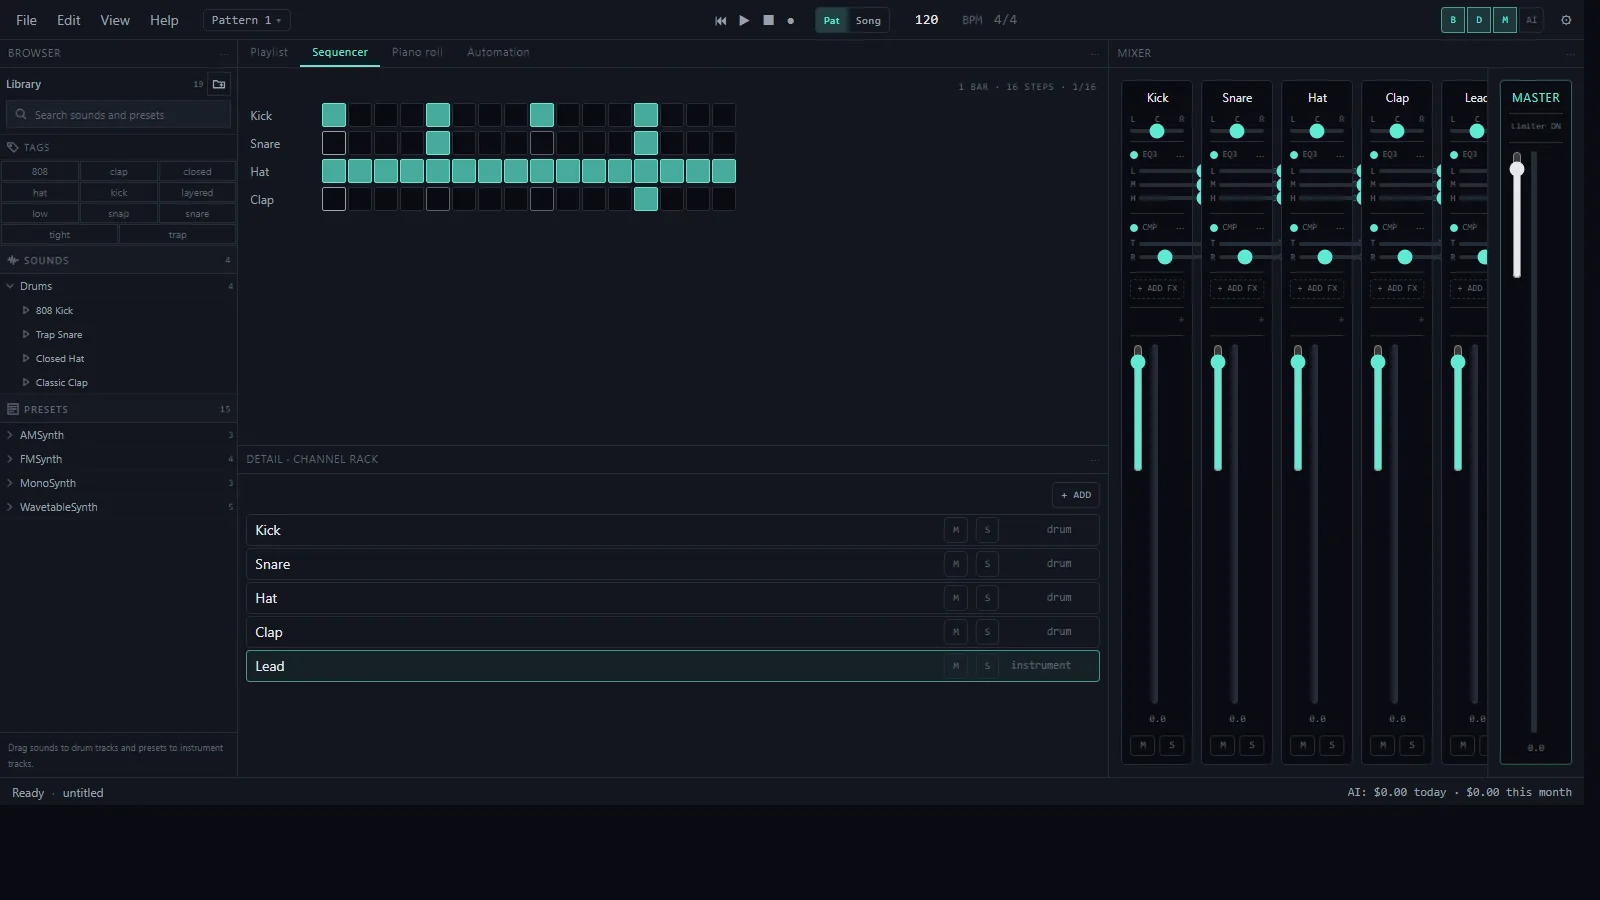
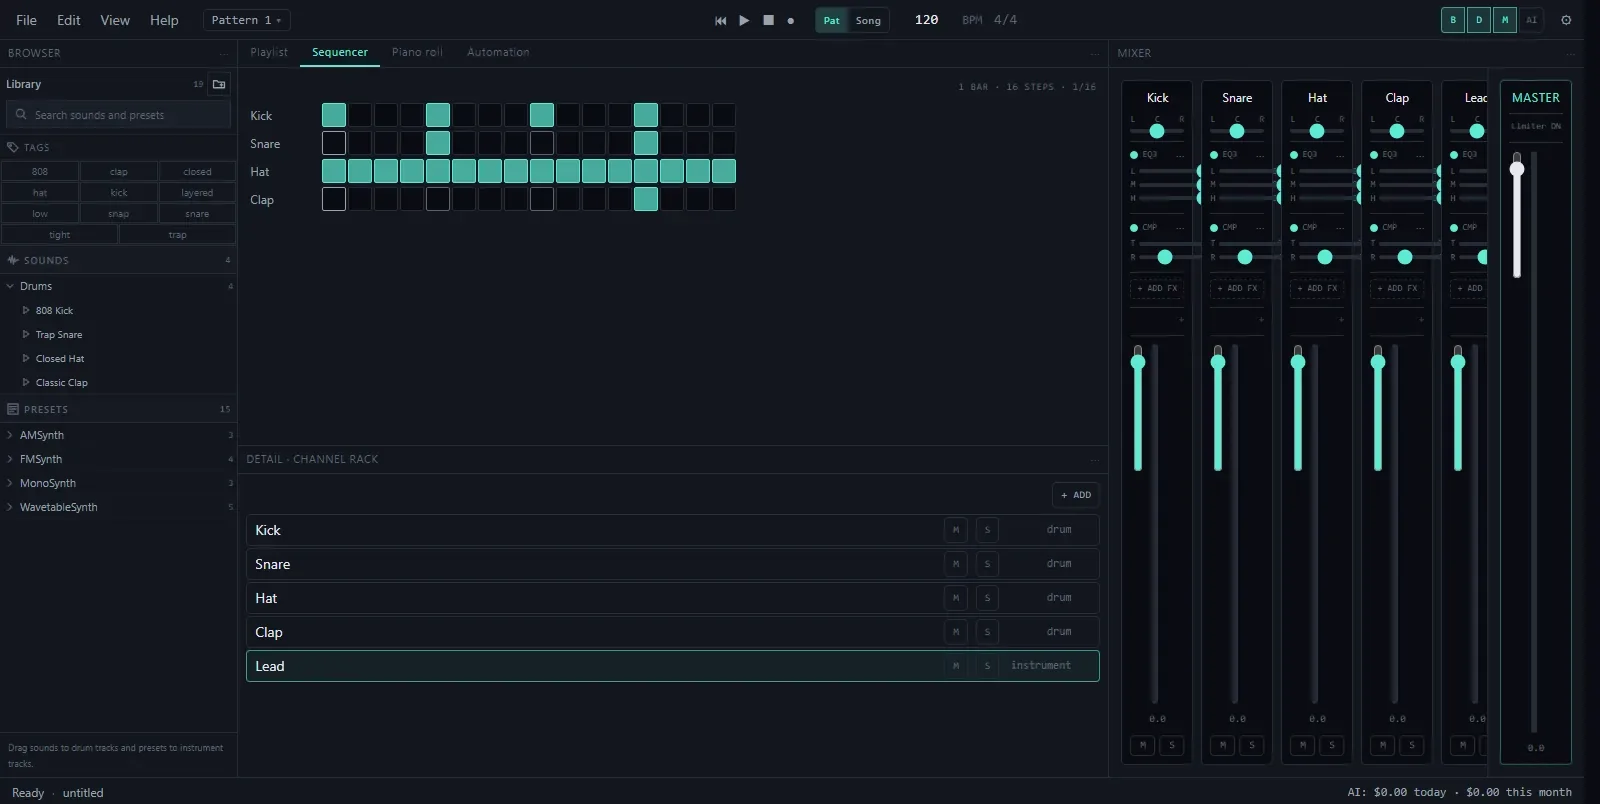
Design polish: sticky nav, heavier hero, framed slides, pill links, circular arrows, aligned repo grid

diff --git a/styles.css b/styles.css
@@ -12,7 +12,7 @@
 
 * { box-sizing: border-box; }
 
-html { color-scheme: dark; }
+html { color-scheme: dark; scroll-behavior: smooth; }
 
 body {
   margin: 0;
@@ -32,7 +32,11 @@ a:focus-visible, button:focus-visible {
 .wrap { max-width: var(--max); margin: 0 auto; padding: 0 20px; }
 
 header.site {
-  padding: 24px 0;
+  padding: 20px 0;
+  position: sticky; top: 0; z-index: 10;
+  background: rgb(var(--bg-default) / 0.85);
+  backdrop-filter: blur(12px);
+  border-bottom: 1px solid rgb(var(--border) / 0.1);
 }
 header.site nav {
   display: flex; align-items: center; justify-content: flex-end;
@@ -45,14 +49,14 @@ header.site nav a {
 header.site nav a:hover { color: rgb(var(--fg-default)); text-decoration: none; }
 
 .hero {
-  padding-top: 40px; padding-bottom: var(--gap-section);
+  padding-top: 72px; padding-bottom: var(--gap-section);
 }
 .hero h1 {
-  font-size: clamp(2.2rem, 5vw + 1rem, 3.4rem);
-  font-weight: 500; margin: 0; letter-spacing: -0.01em; max-width: 16ch;
+  font-size: clamp(2.6rem, 6vw + 0.5rem, 4.4rem);
+  font-weight: 600; margin: 0; letter-spacing: -0.025em; line-height: 1.05; max-width: 14ch;
 }
 
-section { padding: var(--gap-section) 0; border-top: 1px solid rgb(var(--border) / 0.1); }
+section { padding: var(--gap-section) 0; border-top: 1px solid rgb(var(--border) / 0.1); scroll-margin-top: 80px; }
 header.site { border-top: none; }
 
 .slides {
@@ -63,33 +67,44 @@ header.site { border-top: none; }
 .slides::-webkit-scrollbar { display: none; }
 .slides li { flex: 0 0 100%; scroll-snap-align: start; }
 .slides img {
-  width: 100%; aspect-ratio: 16 / 10; object-fit: cover; border-radius: 4px; display: block;
+  width: 100%; aspect-ratio: 16 / 10; object-fit: cover; display: block;
+  border: 1px solid rgb(var(--border) / 0.12); border-radius: 8px; background: #0f0e0d;
 }
 .slide-meta {
   display: flex; align-items: baseline; gap: 16px; margin-top: 16px; flex-wrap: wrap;
 }
-.slide-count { color: rgb(var(--fg-mute)); font-size: 0.85rem; }
-.slide-name { font-size: 1.1rem; font-weight: 500; margin-right: auto; }
-.slide-links a { color: rgb(var(--accent-teal)); font-size: 0.9rem; margin-left: 16px; }
+.slide-count { color: rgb(var(--fg-mute)); font-size: 0.85rem; font-variant-numeric: tabular-nums; }
+.slide-name { font-size: 1.15rem; font-weight: 600; margin-right: auto; }
+.slide-links a {
+  color: rgb(var(--accent-teal)); font-size: 0.85rem; margin-left: 12px;
+  padding: 6px 12px; border: 1px solid rgb(var(--border) / 0.15); border-radius: 999px;
+  transition: background var(--ease);
+}
+.slide-links a:hover { background: rgb(var(--border) / 0.06); text-decoration: none; }
 
 #work { position: relative; }
 .arrow {
-  position: absolute; top: var(--gap-section); height: calc((min(var(--max), 100vw) - 40px) * 10 / 16);
-  width: 64px; border: 0; background: transparent; color: rgb(var(--fg-default));
-  font-size: 1.4rem; cursor: pointer; opacity: 0; transition: opacity var(--ease);
+  position: absolute;
+  top: calc(var(--gap-section) + (min(var(--max), 100vw) - 40px) * 10 / 16 / 2);
+  transform: translateY(-50%);
+  width: 44px; height: 44px; border-radius: 50%;
+  border: 1px solid rgb(var(--border) / 0.2); background: rgb(var(--bg-default) / 0.7);
+  backdrop-filter: blur(6px); color: rgb(var(--fg-default));
+  display: flex; align-items: center; justify-content: center;
+  font-size: 1.1rem; cursor: pointer; opacity: 0; transition: opacity var(--ease), background var(--ease);
 }
-.arrow.prev { left: 20px; } .arrow.next { right: 20px; }
+.arrow.prev { left: 12px; } .arrow.next { right: 12px; }
 #work:hover .arrow, .arrow:focus-visible { opacity: 0.8; }
-.arrow:hover { background: rgb(var(--bg-default) / 0.4); }
+.arrow:hover { background: rgb(var(--bg-default) / 0.9); }
 
 .dots {
-  display: flex; gap: 10px; justify-content: center; margin-top: 28px;
+  display: flex; gap: 8px; justify-content: center; margin-top: 28px;
 }
 .dots button {
-  width: 8px; height: 8px; border-radius: 50%; padding: 0;
-  border: 1px solid rgb(var(--fg-mute)); background: transparent; cursor: pointer;
+  width: 6px; height: 6px; border-radius: 50%; padding: 0;
+  border: 0; background: rgb(var(--border) / 0.25); cursor: pointer;
 }
-.dots button.active { background: rgb(var(--fg-default)); border-color: rgb(var(--fg-default)); }
+.dots button.active { background: rgb(var(--accent-teal)); }
 
 .strip {
   display: grid; grid-template-columns: repeat(3, 1fr);
@@ -97,24 +112,30 @@ header.site { border-top: none; }
 .strip div {
   display: flex; flex-direction: column; align-items: center; gap: 10px;
   padding: 32px 0; border-left: 1px solid rgb(var(--border) / 0.1);
-  color: rgb(var(--fg-dim)); font-size: 0.9rem;
+  color: rgb(var(--fg-dim)); font-size: 0.8rem; letter-spacing: 0.08em;
+  text-transform: uppercase; font-weight: 500;
 }
 .strip div:first-child { border-left: none; }
-.strip svg { color: rgb(var(--accent-teal)); }
+.strip svg { color: rgb(var(--accent-teal)); width: 22px; height: 22px; }
 
 .repos { list-style: none; margin: 0; padding: 0; }
 .repos li {
-  display: flex; align-items: baseline; gap: 16px; flex-wrap: wrap;
+  display: grid; grid-template-columns: 220px 1fr auto; gap: 24px; align-items: baseline;
   padding: 20px 0; border-top: 1px solid rgb(var(--border) / 0.1);
 }
 .repos li:first-child { border-top: none; }
-.repos .repo-name { font-weight: 500; }
-.repos .repo-desc { color: rgb(var(--fg-dim)); font-size: 0.9rem; margin-right: auto; }
-.repos .repo-live { font-size: 0.9rem; }
+.repos .repo-name { font-weight: 500; color: rgb(var(--fg-default)); transition: color var(--ease); }
+.repos .repo-name:hover { color: rgb(var(--accent-teal)); text-decoration: none; }
+.repos .repo-desc { color: rgb(var(--fg-dim)); font-size: 0.9rem; }
+.repos .repo-live {
+  font-size: 0.85rem; padding: 6px 12px; border: 1px solid rgb(var(--border) / 0.15);
+  border-radius: 999px; transition: background var(--ease); justify-self: end;
+}
+.repos .repo-live:hover { background: rgb(var(--border) / 0.06); text-decoration: none; }
 
 footer.site {
-  padding: 32px 0 60px;
-  color: rgb(var(--fg-mute)); font-size: 0.85rem;
+  padding: 28px 0 48px; border-top: 1px solid rgb(var(--border) / 0.1);
+  color: rgb(var(--fg-mute)); font-size: 0.8rem;
 }
 footer.site .wrap { display: flex; justify-content: space-between; }
 footer.site a { color: rgb(var(--fg-mute)); }
@@ -122,9 +143,15 @@ footer.site a:hover { color: rgb(var(--fg-dim)); }
 
 @media (max-width: 640px) {
   :root { --gap-section: 64px; }
-  .strip { grid-template-columns: 1fr; }
-  .strip div { border-left: none; border-top: 1px solid rgb(var(--border) / 0.1); }
-  .strip div:first-child { border-top: none; }
+  .strip div { padding: 20px 0; }
+  .strip svg { width: 18px; height: 18px; }
+  .repos li { grid-template-columns: 1fr auto; }
+  .repos .repo-desc { grid-column: 1 / -1; }
+  .repos .repo-live { grid-row: 1; grid-column: 2; }
 }
 
 @media (hover: none) { .arrow { opacity: 0.8; } }
+
+@media (prefers-reduced-motion: reduce) {
+  html { scroll-behavior: auto; }
+}
